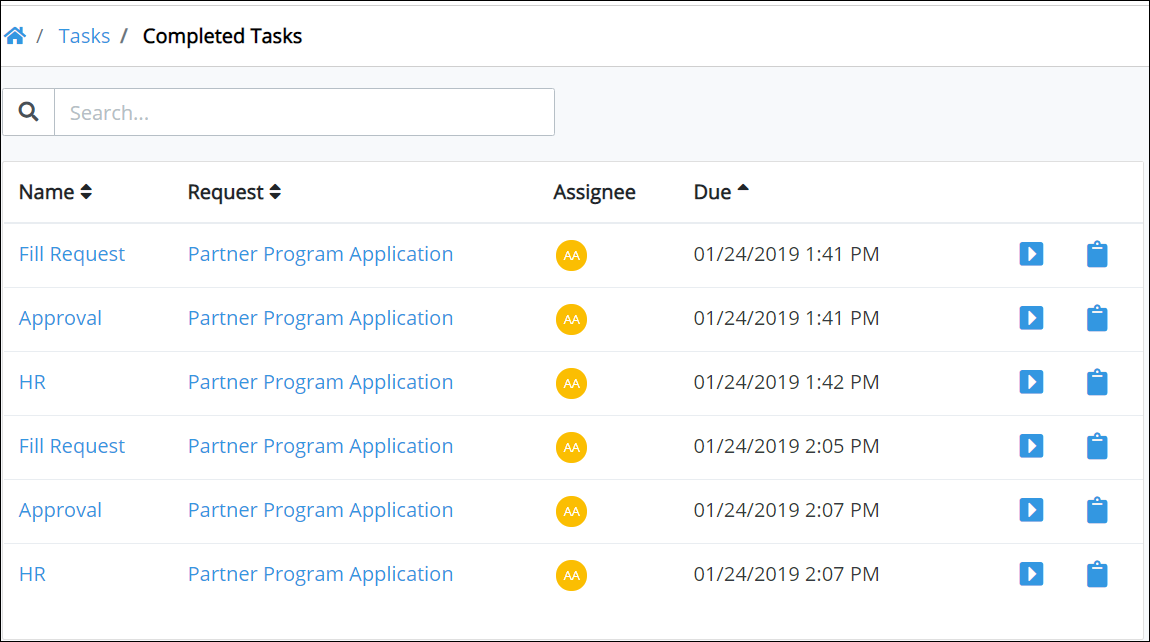
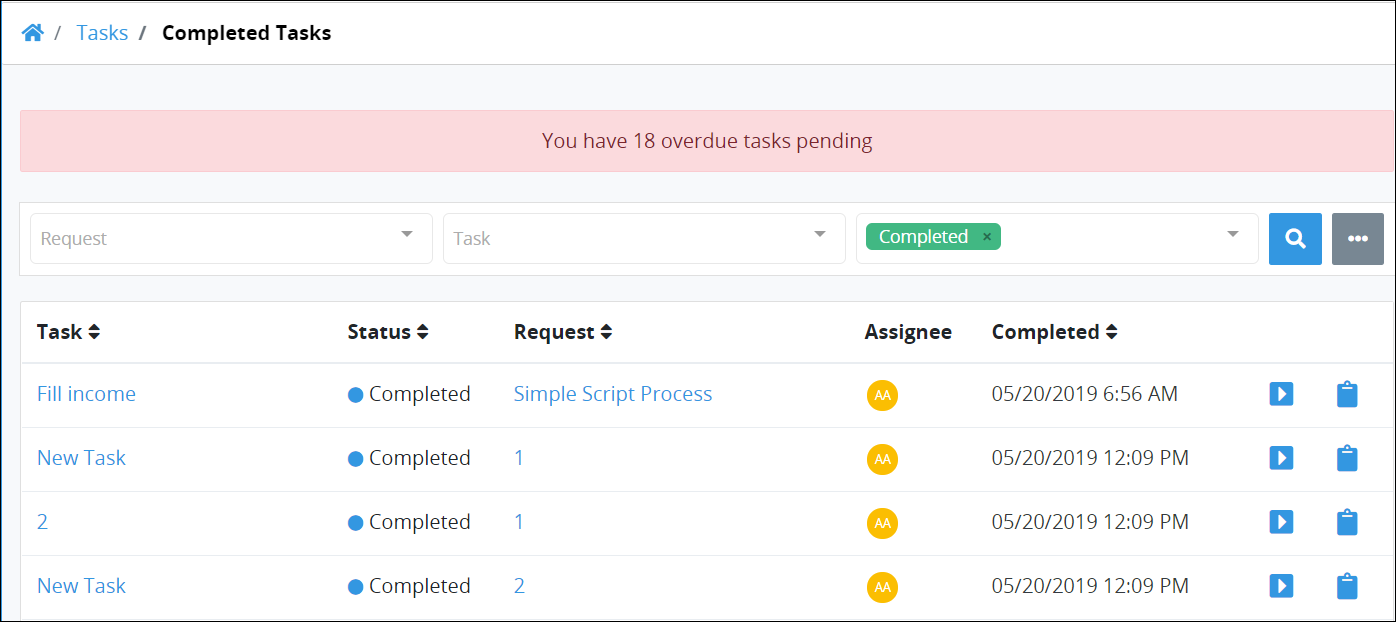
GitBook: [processmaker] 3 pages and one asset modified

diff --git a/using-processmaker/task-management/view-completed-tasks.md b/using-processmaker/task-management/view-completed-tasks.md
@@ -14,6 +14,8 @@ Follow these steps to view all your completed Tasks:
 2. Click the **Tasks** option from the top menu. The **Completed Tasks** page displays.
 3. Click the **Completed** icon ![](../../.gitbook/assets/completed-icon-request%20%281%29.png)in the left sidebar. All your completed Tasks display.
 
+~~RETAKE SCREENSHOT AFTER THE "STATUS" COLUMN IS REMOVED.~~
+
 ![&quot;Completed Tasks&quot; page displays Tasks you have completed](../../.gitbook/assets/completed-tasks-tasks.png)
 
 The **Completed Tasks** page displays the following information in tabular format about all your completed  Tasks:
@@ -21,22 +23,42 @@ The **Completed Tasks** page displays the following information in tabular forma
 * **Task:** The **Task** column displays the name of the completed Task. If you click the Task name, the Task title displays with the following message: **Task Completed** along with [information about the completed Task](view-completed-tasks.md#view-information-about-a-completed-task).
 * **Request:** The **Request** column displays the name of the Process associated with the Request. Click the Process name to [view the Request summary](../requests/request-details/).
 * **Assignee:** The **Assignee** column displays the avatar for the username to whom the Task was assigned. Hover your cursor over a user's avatar to view that person's full name.
-* **Due:** The **Due** column displays the date the Task was due. The time zone setting to display the time is according to the ProcessMaker 4 server unless your [user profile's](../profile-settings.md#change-your-profile-settings) **Time zone** setting is specified.
+* **Completed:** The **Completed** column displays the date you completed the Task. The time zone setting to display the time is according to the ProcessMaker 4 server unless your [user profile's](../profile-settings.md#change-your-profile-settings) **Time zone** setting is specified.
 
 {% hint style="info" %}
 ### View a Completed Task and Its Summary
 
 To view a [completed Task and its summary](view-a-task-summary.md#summary-for-a-completed-task), do one of the following:
 
-* From the **Name** column, click the Task name that you want to view.
+* From the **Task** column, click the Task name that you want to view.
 * Click the **Open Task** icon![](../../.gitbook/assets/open-request-icon-requests.png)for the Task name that you want to view.
 
 ### View a Request Summary Associated with a Task
 
 To [view a Request summary](../requests/request-details/), do one of the following:
 
-* From the **Request** column, click the Process name associated with the Task that you want to view.
+* From the **Request** column, click the Process name associated with the Request for the assigned Task.
 * Click the **Open Request** icon![](../../.gitbook/assets/open-request-icon-assigned-tasks.png)for the Request associated with the Task.
+
+### Search for a Task
+
+Use Request data to search for Tasks on this page based on the following criteria:
+
+* **Request:** Search using one or more Requests based on the Process names associated with the Request\(s\).
+* **Task:** Search using one or more Task names as part of your search criteria.
+* **Status:** Search using one or more of the following Task statuses:
+  * **In progress:** Include Tasks that are assigned to you which are in progress or not started as part of your search criteria.
+  * **Completed:** Include Tasks that are you have completed as part of your search criteria.
+
+You can do [basic](search-for-a-task.md#basic-search-for-a-task) and [advanced](search-for-a-task.md#advanced-search-for-a-task) searches for Tasks.
+
+### Be Reminded of Overdue Tasks
+
+If you have Tasks in the **To Do** Tasks page, a message displays above your completed Tasks how many overdue Tasks you have.  
+
+![](../../.gitbook/assets/assigned-to-do-tasks-overdue-tasks.png)
+
+Click the **To Do** icon![](../../.gitbook/assets/to-do-icon-tasks.png) in the left sidebar to view which of your assigned Tasks are overdue.
 
 ### No Completed Tasks?
 

diff --git a/using-processmaker/task-management/view-a-task-summary.md b/using-processmaker/task-management/view-a-task-summary.md
@@ -12,7 +12,7 @@ Follow these steps to view the summary for an assigned Task:
 2. [View all assigned Tasks.](view-tasks-you-need-to-do.md#view-your-assigned-tasks) The **To Do Tasks** page displays.
 3. Click the name of the Task from the **Name** column. The Task's [form](view-a-task-summary.md#form), Request [data](view-a-task-summary.md#data), and Task [summary](view-a-task-summary.md#summary) display.
 
-Below is an example assigned Task.
+Below is an example of a Task summary.
 
 ![An assigned Task](../../.gitbook/assets/assigned-to-do-task-summary-tasks.png)
 

diff --git a/using-processmaker/task-management/view-tasks-you-need-to-do.md b/using-processmaker/task-management/view-tasks-you-need-to-do.md
@@ -40,7 +40,7 @@ To view an [assigned Task and its summary](view-a-task-summary.md#summary-for-an
 
 To [view a Request summary](../requests/request-details/), do one of the following:
 
-* From the **Request** column, click the Request for the Task that you want to view.
+* From the **Request** column, click the Process name associated with the Request for the assigned Task.
 * Click the **Open Request** icon![](../../.gitbook/assets/open-request-icon-assigned-tasks.png)for the Request associated with the Task.
 
 ### Search for a Task
